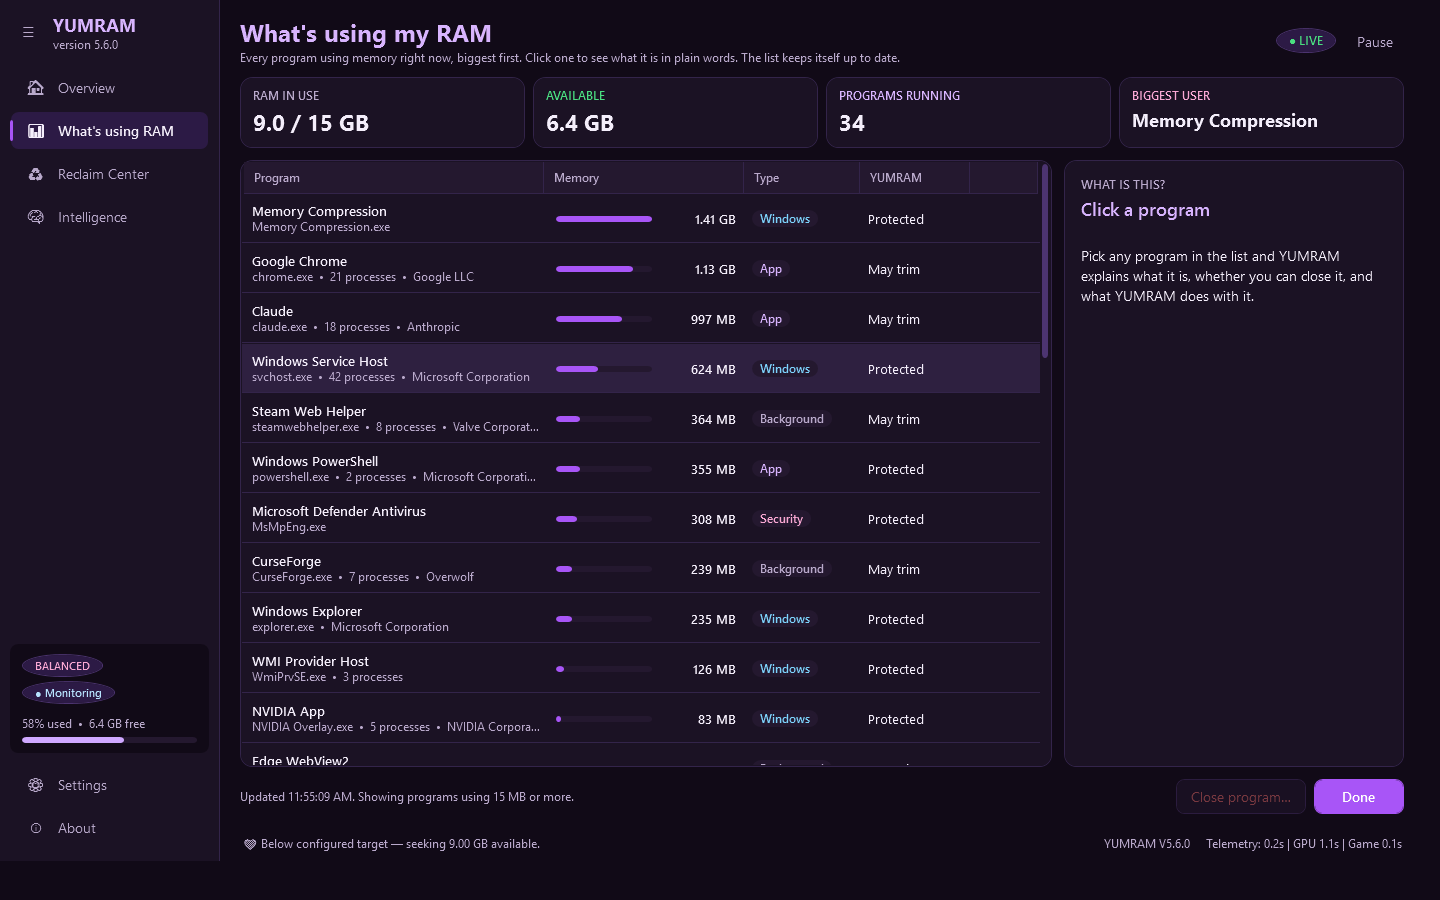
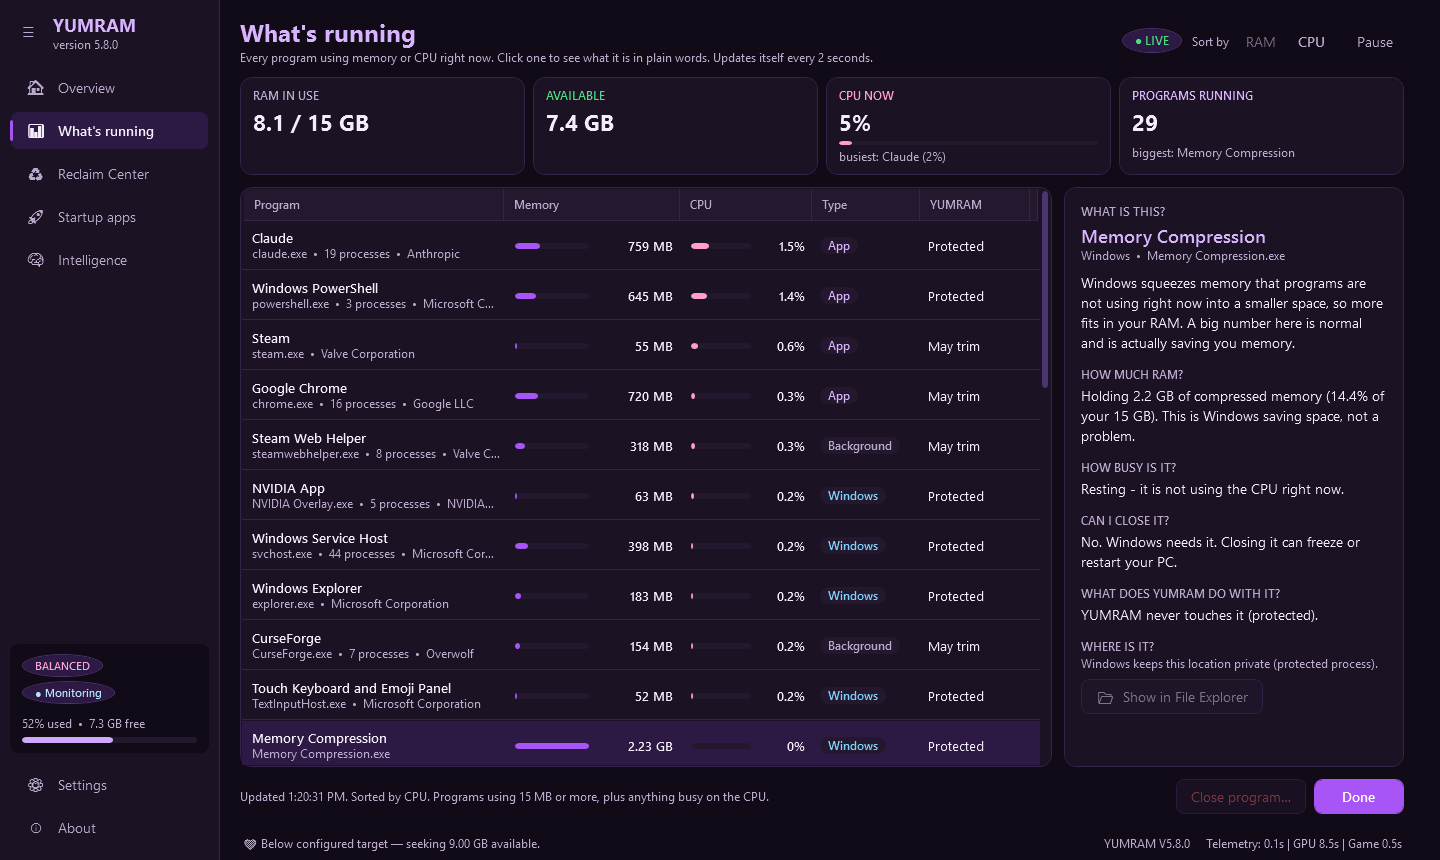
YUMRAM 5.9.0: lighter footprint, live CPU per program
Measured YUMRAM's own idle cost and fixed what the numbers pointed at:
Overview on screen ~24% -> ~14% of one core; in the tray ~9% -> ~8%;
own memory when hidden in the tray ~270 MB -> ~120 MB.
- GPU % sampled only while the Overview is on screen.
- No redraw while hidden or on another page (history keeps recording);
  1 s screen timer while hidden; graph min/max without pipelines.
- Reachable estimate every 2 min while unseen (was 30 s).
- Releases its own idle memory 10 s after hiding to the tray.

CPU visuals: "What's running" page with live CPU column per program,
sort by RAM/CPU, CPU now card with load bar and busiest program, plain
"How busy is it?" answer, amber marker for programs CPU balance holds
back; Overview CPU balance card lists the busiest programs.

New Release59FootprintTest; 51/51 tests; full UI probe 53 steps.

diff --git a/UI/Xaml/TopProcesses.xaml b/UI/Xaml/TopProcesses.xaml
@@ -5,7 +5,7 @@
   The list updates itself every 2 s (rows are updated in place, so the selection stays put).
 -->
 <Window xmlns="http://schemas.microsoft.com/winfx/2006/xaml/presentation" xmlns:x="http://schemas.microsoft.com/winfx/2006/xaml"
-        Title="YUMRAM - What's using my RAM" Width="1120" Height="740" MinWidth="900" MinHeight="560" WindowStartupLocation="CenterOwner"
+        Title="YUMRAM - What's running" Width="1120" Height="740" MinWidth="900" MinHeight="560" WindowStartupLocation="CenterOwner"
         Background="{StaticResource Bg}" Foreground="{StaticResource Text}" FontFamily="{StaticResource UiFont}" FontSize="14" UseLayoutRounding="True">
   <Window.Resources>
     <Style x:Key="Answer" TargetType="TextBlock"><Setter Property="TextWrapping" Value="Wrap"/><Setter Property="Margin" Value="0,2,0,0"/><Setter Property="LineHeight" Value="20"/></Style>
@@ -20,12 +20,15 @@
         <Border x:Name="LivePill" Style="{StaticResource Pill}" Margin="0,0,10,0" VerticalAlignment="Center">
           <TextBlock x:Name="LiveText" Text="● LIVE" FontSize="12" FontWeight="SemiBold" Foreground="{StaticResource Success}"/>
         </Border>
+        <TextBlock Text="Sort by" Style="{StaticResource Caption}" VerticalAlignment="Center" Margin="0,0,6,0"/>
+        <Button x:Name="SortRam" Content="RAM" Style="{StaticResource GhostButton}" FontWeight="SemiBold" ToolTip="Biggest memory users first."/>
+        <Button x:Name="SortCpu" Content="CPU" Style="{StaticResource GhostButton}" Margin="0,0,10,0" ToolTip="Busiest programs first."/>
         <Button x:Name="Pause" Content="Pause" Style="{StaticResource GhostButton}" ToolTip="Stop the list from updating so it holds still."/>
         <Button x:Name="Refresh" Visibility="Collapsed" Content="Refresh"/>
       </StackPanel>
       <StackPanel>
-        <TextBlock Text="What's using my RAM" Style="{StaticResource AppTitle}"/>
-        <TextBlock Text="Every program using memory right now, biggest first. Click one to see what it is in plain words. The list keeps itself up to date." Style="{StaticResource Caption}" Margin="0,2,0,0" TextWrapping="Wrap"/>
+        <TextBlock Text="What's running" Style="{StaticResource AppTitle}"/>
+        <TextBlock Text="Every program using memory or CPU right now. Click one to see what it is in plain words. Updates itself every 2 seconds." Style="{StaticResource Caption}" Margin="0,2,0,0" TextWrapping="Wrap"/>
       </StackPanel>
     </DockPanel>
 
@@ -33,8 +36,8 @@
     <UniformGrid Grid.Row="1" Columns="4" Margin="0,0,-8,12">
       <Border Style="{StaticResource Card}" Padding="12,10" Margin="0,0,8,0"><StackPanel><TextBlock Text="RAM IN USE" Style="{StaticResource StatLabel}"/><TextBlock x:Name="SumUsed" Text="--" Style="{StaticResource StatValue}" FontSize="22"/></StackPanel></Border>
       <Border Style="{StaticResource Card}" Padding="12,10" Margin="0,0,8,0"><StackPanel><TextBlock Text="AVAILABLE" Style="{StaticResource StatLabel}" Foreground="{StaticResource Success}"/><TextBlock x:Name="SumAvailable" Text="--" Style="{StaticResource StatValue}" FontSize="22"/></StackPanel></Border>
-      <Border Style="{StaticResource Card}" Padding="12,10" Margin="0,0,8,0"><StackPanel><TextBlock Text="PROGRAMS RUNNING" Style="{StaticResource StatLabel}" Foreground="{StaticResource Brand}"/><TextBlock x:Name="SumPrograms" Text="--" Style="{StaticResource StatValue}" FontSize="22"/></StackPanel></Border>
-      <Border Style="{StaticResource Card}" Padding="12,10" Margin="0,0,8,0"><StackPanel><TextBlock Text="BIGGEST USER" Style="{StaticResource StatLabel}" Foreground="{StaticResource Pink}"/><TextBlock x:Name="SumBiggest" Text="--" Style="{StaticResource StatValue}" FontSize="18" TextTrimming="CharacterEllipsis" Margin="0,4,0,0"/></StackPanel></Border>
+      <Border Style="{StaticResource Card}" Padding="12,10" Margin="0,0,8,0"><StackPanel><TextBlock Text="CPU NOW" Style="{StaticResource StatLabel}" Foreground="{StaticResource SeriesCpu}"/><TextBlock x:Name="SumCpu" Text="--" Style="{StaticResource StatValue}" FontSize="22"/><ProgressBar x:Name="SumCpuBar" Maximum="100" Height="4" Margin="0,4,0,4" Foreground="{StaticResource SeriesCpu}"/><TextBlock x:Name="SumCpuTop" Text="measuring…" Style="{StaticResource Caption}" TextTrimming="CharacterEllipsis"/></StackPanel></Border>
+      <Border Style="{StaticResource Card}" Padding="12,10" Margin="0,0,8,0"><StackPanel><TextBlock Text="PROGRAMS RUNNING" Style="{StaticResource StatLabel}" Foreground="{StaticResource Brand}"/><TextBlock x:Name="SumPrograms" Text="--" Style="{StaticResource StatValue}" FontSize="22"/><TextBlock x:Name="SumBiggest" Text="" Style="{StaticResource Caption}" TextTrimming="CharacterEllipsis" Margin="0,8,0,0"/></StackPanel></Border>
     </UniformGrid>
 
     <!-- List | details -->
@@ -43,7 +46,7 @@
       <Border Style="{StaticResource Card}" Padding="0" Margin="0,0,12,0">
         <ListView x:Name="Items" BorderThickness="0" Background="Transparent" Margin="1" SelectionMode="Single" ScrollViewer.HorizontalScrollBarVisibility="Disabled">
           <ListView.View><GridView>
-            <GridViewColumn Header="Program" Width="300">
+            <GridViewColumn Header="Program" Width="260">
               <GridViewColumn.CellTemplate><DataTemplate>
                 <StackPanel Margin="0,2">
                   <TextBlock Text="{Binding Title}" FontWeight="SemiBold" TextTrimming="CharacterEllipsis"/>
@@ -51,16 +54,28 @@
                 </StackPanel>
               </DataTemplate></GridViewColumn.CellTemplate>
             </GridViewColumn>
-            <GridViewColumn Header="Memory" Width="200">
+            <GridViewColumn Header="Memory" Width="176">
               <GridViewColumn.CellTemplate><DataTemplate>
-                <Grid Width="180">
+                <Grid Width="158">
                   <Grid.ColumnDefinitions><ColumnDefinition Width="*"/><ColumnDefinition Width="76"/></Grid.ColumnDefinitions>
                   <ProgressBar Minimum="0" Maximum="100" Value="{Binding BarPercent, Mode=OneWay}" Height="6" VerticalAlignment="Center" Margin="0,0,8,0"/>
                   <TextBlock Grid.Column="1" Text="{Binding MemoryText}" HorizontalAlignment="Right" FontWeight="SemiBold"/>
                 </Grid>
               </DataTemplate></GridViewColumn.CellTemplate>
             </GridViewColumn>
-            <GridViewColumn Header="Type" Width="116">
+            <GridViewColumn Header="CPU" Width="132">
+              <GridViewColumn.CellTemplate><DataTemplate>
+                <Grid Width="114">
+                  <Grid.ColumnDefinitions><ColumnDefinition Width="*"/><ColumnDefinition Width="48"/></Grid.ColumnDefinitions>
+                  <ProgressBar x:Name="CpuBarCtl" Minimum="0" Maximum="100" Value="{Binding CpuBar, Mode=OneWay}" Height="6" VerticalAlignment="Center" Margin="0,0,6,0" Foreground="{StaticResource SeriesCpu}"/>
+                  <TextBlock x:Name="CpuTextCtl" Grid.Column="1" Text="{Binding CpuText}" HorizontalAlignment="Right" FontWeight="SemiBold"/>
+                </Grid>
+                <DataTemplate.Triggers>
+                  <DataTrigger Binding="{Binding CpuState}" Value="Held back"><Setter TargetName="CpuBarCtl" Property="Foreground" Value="{StaticResource Warning}"/><Setter TargetName="CpuTextCtl" Property="Foreground" Value="{StaticResource Warning}"/></DataTrigger>
+                </DataTemplate.Triggers>
+              </DataTemplate></GridViewColumn.CellTemplate>
+            </GridViewColumn>
+            <GridViewColumn Header="Type" Width="108">
               <GridViewColumn.CellTemplate><DataTemplate>
                 <Border CornerRadius="9" Padding="8,1" Background="{StaticResource Surface2}" HorizontalAlignment="Left">
                   <TextBlock x:Name="KindText" Text="{Binding Kind}" FontSize="12" FontWeight="SemiBold" Foreground="{StaticResource TextMuted}"/>
@@ -90,6 +105,8 @@
             <StackPanel x:Name="ExplainBody" Visibility="Collapsed">
               <TextBlock Text="HOW MUCH RAM?" Style="{StaticResource Question}"/>
               <TextBlock x:Name="ExplainMemory" Style="{StaticResource Answer}"/>
+              <TextBlock Text="HOW BUSY IS IT?" Style="{StaticResource Question}"/>
+              <TextBlock x:Name="ExplainCpu" Style="{StaticResource Answer}"/>
               <TextBlock Text="CAN I CLOSE IT?" Style="{StaticResource Question}"/>
               <TextBlock x:Name="ExplainSafe" Style="{StaticResource Answer}"/>
               <TextBlock Text="WHAT DOES YUMRAM DO WITH IT?" Style="{StaticResource Question}"/>

diff --git a/UI/Xaml/MainWindow.xaml b/UI/Xaml/MainWindow.xaml
@@ -103,8 +103,8 @@
           <Button x:Name="NavOverview" Style="{StaticResource NavButton}" ToolTip="Overview: live memory, goal and one-click reclaim (Ctrl+1)" AutomationProperties.Name="Overview">
             <StackPanel Orientation="Horizontal"><TextBlock Text="🏠" Width="24" TextAlignment="Center"/><TextBlock Text="Overview" Margin="10,0,0,0"/></StackPanel>
           </Button>
-          <Button x:Name="Processes" Style="{StaticResource NavButton}" ToolTip="Every program using memory, explained in plain words. Updates live. (Ctrl+2)" AutomationProperties.Name="What's using RAM">
-            <StackPanel Orientation="Horizontal"><TextBlock Text="📊" Width="24" TextAlignment="Center"/><TextBlock Text="What's using RAM" Margin="10,0,0,0"/></StackPanel>
+          <Button x:Name="Processes" Style="{StaticResource NavButton}" ToolTip="Every program using memory or CPU, explained in plain words. Updates live. (Ctrl+2)" AutomationProperties.Name="What's running">
+            <StackPanel Orientation="Horizontal"><TextBlock Text="📊" Width="24" TextAlignment="Center"/><TextBlock Text="What's running" Margin="10,0,0,0"/></StackPanel>
           </Button>
           <Button x:Name="ReclaimCenter" Style="{StaticResource NavButton}" ToolTip="Run a reclaim and see exactly what was trimmed and what Windows returned. (Ctrl+3)" AutomationProperties.Name="Reclaim Center">
             <StackPanel Orientation="Horizontal"><TextBlock Text="♻" Width="24" TextAlignment="Center"/><TextBlock Text="Reclaim Center" Margin="10,0,0,0"/></StackPanel>

diff --git a/UI/Xaml/About.xaml b/UI/Xaml/About.xaml
@@ -41,7 +41,7 @@
               <TextBlock x:Name="HotkeyKeys" Text="Ctrl+Alt+R" FontWeight="SemiBold" Foreground="{StaticResource Brand}" Margin="0,0,0,6"/>
               <TextBlock x:Name="HotkeyText" Grid.Column="1" Text="Free RAM now, from anywhere (even from a game or the tray)" Style="{StaticResource Caption}" TextWrapping="Wrap" Margin="0,0,0,6"/>
               <TextBlock Grid.Row="1" Text="Ctrl+1 … Ctrl+7" FontWeight="SemiBold" Foreground="{StaticResource Brand}" Margin="0,0,0,6"/>
-              <TextBlock Grid.Row="1" Grid.Column="1" Text="Overview · What's using RAM · Reclaim Center · Startup apps · Intelligence · Settings · About" Style="{StaticResource Caption}" TextWrapping="Wrap" Margin="0,0,0,6"/>
+              <TextBlock Grid.Row="1" Grid.Column="1" Text="Overview · What's running · Reclaim Center · Startup apps · Intelligence · Settings · About" Style="{StaticResource Caption}" TextWrapping="Wrap" Margin="0,0,0,6"/>
               <TextBlock Grid.Row="2" Text="☰" FontWeight="SemiBold" Foreground="{StaticResource Brand}"/>
               <TextBlock Grid.Row="2" Grid.Column="1" Text="Show or hide the page names in the sidebar" Style="{StaticResource Caption}" TextWrapping="Wrap"/>
             </Grid>

diff --git a/CHANGELOG.md b/CHANGELOG.md
@@ -1,5 +1,33 @@
 # Changelog
 
+# YUMRAM 5.9.0 — Lighter YUMRAM, CPU you can see (branch `visual-overhaul`)
+
+A RAM tool should not be heavy itself. Measured YUMRAM's own cost at idle (goal met, monitoring on,
+CPU balance on), then fixed what the measurements pointed at:
+
+| YUMRAM itself, idle | before | after |
+|---|---|---|
+| Overview on screen | ~24 % of one core | ~14 % |
+| Hidden in the tray | ~9 % of one core | ~8 % |
+| Own memory when hidden in the tray | ~270 MB | ~120 MB |
+
+- GPU % (display-only, the costliest sample at ~0.25 s CPU each) is sampled only while the Overview is
+  on screen. The "reachable RAM" estimate refreshes every 2 min instead of 30 s while nobody sees it.
+- Nothing is redrawn while hidden or on another page (history keeps recording, so the graph is whole
+  when you come back); the screen timer slows to 1 s while hidden; the graph uses plain loops instead
+  of pipelines.
+- Hidden in the tray for 10 s, YUMRAM releases its own idle memory (GC + trim of its own working set).
+
+CPU visuals (there was little more than one % number):
+- **What's running** (was "What's using RAM"): live CPU column with bars per program (all its
+  processes together, same delta method as Task Manager), **Sort by RAM / CPU**, a **CPU now** card with
+  a load bar and the busiest program, a **How busy is it?** answer in plain words, and programs CPU
+  balance is holding back are marked in amber ("CPU held back"). Small programs that are busy on the
+  CPU now appear even under 15 MB.
+- Overview's CPU balance card shows the busiest programs right now.
+- Full UI probe: 53 steps (adds CPU card, How busy, sort by CPU). A hotkey already owned by another
+  running YUMRAM is reported, not treated as an error.
+
 # YUMRAM 5.8.0 — CPU balance (ProBalance-style) (branch `visual-overhaul`)
 
 Last big competitor gap: Process Lasso's ProBalance. Researched from Bitsum's own documentation: it

diff --git a/README.md b/README.md
@@ -2,7 +2,7 @@
 
 **Yumes Ultimate Memory Reclaim & Monitor**
 
-Version: 5.8.0
+Version: 5.9.0
 Stage: alpha
 
 **YUMRAM keeps Windows responsive by keeping Available RAM above a target you choose.** It trims the
@@ -16,7 +16,7 @@ It is a single-folder Windows PowerShell 5.1 + WPF app: no installer, no runtime
 ## Features
 
 - **One window**: a sidebar (like Windows 11 Task Manager) opens Overview, What's using RAM, Reclaim
-  Center, Startup apps, Intelligence, Settings and About as pages in the same window. `Ctrl+1`…`Ctrl+7`
+  Center, Startup apps, Intelligence, Settings and About (What's running shows live RAM and CPU per program) as pages in the same window. `Ctrl+1`…`Ctrl+7`
   jump between them, and the sidebar shrinks to icons when the window is narrow.
 - **CPU balance** (like Process Lasso's ProBalance): when the PC is busy and a background program hogs
   the CPU, YUMRAM temporarily lowers it to Below Normal priority so the app you are using stays smooth,
